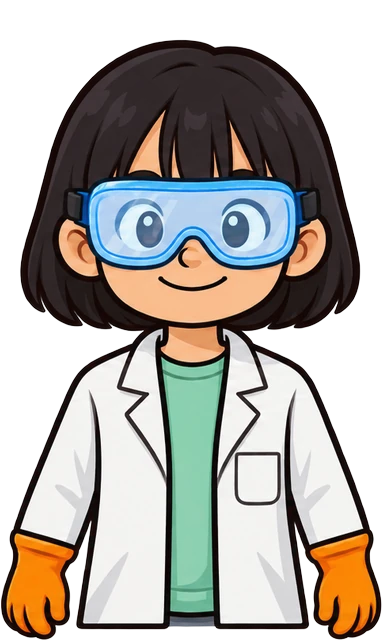
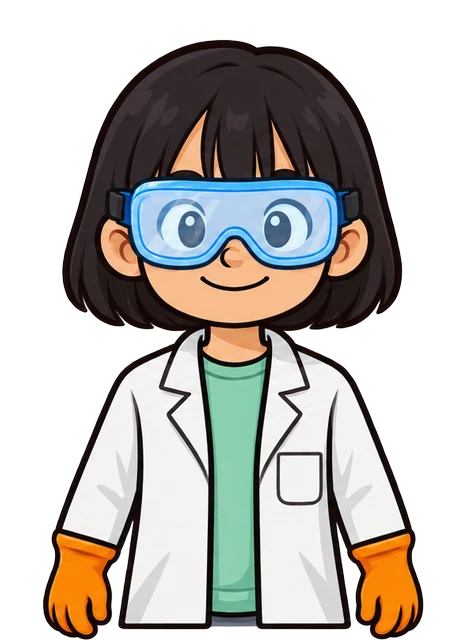
feat: 압력-부피 그래프를 교과서 개형(가로 압력, 세로 부피, 원점 0, 반비례 곡선)으로, 기본 그림 3장 다시 그리기
- 눈금을 모두 읽으면 곡선이 양쪽으로 이어져 나가 반비례 모양이 드러남(game/graph.ts, 테스트 4개)
- 기본 그림을 착용 그림과 같은 방식으로 재생성, 틀을 가로 470으로 넓혀 포니테일·소매 잘림 해결
- 크기는 폭이 아닌 높이 기준(담그기, 결과 카드)

diff --git a/game/scenes/ClinicScene.ts b/game/scenes/ClinicScene.ts
@@ -9,6 +9,7 @@ import {
 } from '@/game/exam';
 import { checkPistonRun, deviceVolume, heldConstant, needleFromVolume, pressureReading, stepTargetVolume, badgeText } from '@/game/rules';
 import { LensView } from '@/game/systems/lens';
+import { curveSamples, plotArea, toGraph, GRAPH_P_MAX } from '@/game/graph';
 import { GoalBanner } from '@/game/systems/goalBanner';
 import { goalFor } from '@/game/goals';
 import { inEmergency, roundBlocked, comboRate } from '@/game/systems/emergencyRound';
@@ -56,6 +57,7 @@ export class ClinicScene extends Phaser.Scene {
   private finishTimer: number | null = null;
   private popAt: Record<number, number> = {};
   private lastPistonVol = 0;
+  private graphDoneAt = 0;
   private lastPistonSound = 0;
   private lens!: LensView;
   private gxLabel!: Phaser.GameObjects.Text;
@@ -87,7 +89,7 @@ export class ClinicScene extends Phaser.Scene {
     this.goal = new GoalBanner(this, inEmergency() ? 764 : 44);
     this.gHand = this.add.graphics().setDepth(45);
     const lab = (t: string) => this.add.text(0, 0, t, { ...TEXT, fontSize: '18px', fontStyle: 'bold', color: '#37474f' }).setOrigin(0.5).setDepth(11).setVisible(false);
-    this.gxLabel = lab('부피'); this.gyLabel = lab('압력').setAngle(-90);
+    this.gxLabel = lab('압력'); this.gyLabel = lab('부피').setAngle(-90);   // 교과서 그림 Ⅵ-3: 가로 압력, 세로 부피
     this.sp = { grip: this.add.image(0, 0, 'sp_grip').setDepth(13) };
     this.GRIP_ASPECT = 366 / 113;
     const key = this.textures.exists(`patient_${patient.id}`) ? `patient_${patient.id}` : `patient_${patient.id}_ph`;
@@ -353,25 +355,33 @@ export class ClinicScene extends Phaser.Scene {
 
   /** 작은 그래프: 눈금을 읽을 때마다 점이 하나씩 찍힌다. 가로 = 부피 눈금, 세로 = 바늘의 상대 높이(수치 없음). */
   private drawGraph(g: Phaser.GameObjects.Graphics, now: number) {
-    const { x, y, w, h } = this.L.graph; const m = this.cfg.measure;
-    const lo = needleFromVolume(m.from, this.cfg.syringe.start), hi = needleFromVolume(m.to, this.cfg.syringe.start);
-    const px = (v: number) => x + 46 + ((v - m.to) / (m.from - m.to)) * (w - 70);
-    const py = (n: number) => y + h - 44 - ((n - lo) / (hi - lo)) * (h - 70);
+    const { x, y, w, h } = this.L.graph; const m = this.cfg.measure; const cfg = this.cfg;
+    const A = plotArea(this.L.graph);
     g.fillStyle(0x000000, 0.2); g.fillRoundedRect(x + 6, y + 8, w, h, 12);
     g.fillStyle(0xfdfcf7, 0.96); g.fillRoundedRect(x, y, w, h, 12); g.lineStyle(3, 0x546e7a, 1); g.strokeRoundedRect(x, y, w, h, 12);
-    g.lineStyle(3, 0x546e7a, 1); g.lineBetween(x + 34, y + 14, x + 34, y + h - 30); g.lineBetween(x + 34, y + h - 30, x + w - 12, y + h - 30);
-    g.fillStyle(0x546e7a, 1); g.fillTriangle(x + 34, y + 8, x + 28, y + 20, x + 40, y + 20); g.fillTriangle(x + w - 6, y + h - 30, x + w - 18, y + h - 36, x + w - 18, y + h - 24);
-    this.gxLabel.setPosition(x + (w + 34) / 2, y + h - 12).setVisible(true); this.gyLabel.setPosition(x + 17, y + (h - 30) / 2).setVisible(true);
-    const pts = this.st.readings.filter(r => r.dwellMs >= m.dwellMs && r.volume >= m.to && r.volume <= m.from).sort((a, b) => b.volume - a.volume)
-      .map(r => ({ v: r.volume, X: px(r.volume), Y: py(needleFromVolume(r.volume, this.cfg.syringe.start)) }));
-    if (pts.length > 1) {
-      g.lineStyle(3, 0xc0506a, 0.5); g.beginPath(); g.moveTo(pts[0].X, pts[0].Y);
-      for (const p of pts.slice(1)) g.lineTo(p.X, p.Y);
-      g.strokePath();
-    }
-    for (const p of pts) {
-      const pop = now - (this.popAt[p.v] ?? -1e9); const k = pop < 350 ? 1 + 0.9 * Math.sin((pop / 350) * Math.PI) : 1;
-      g.fillStyle(0xc0506a, 1); g.fillCircle(p.X, p.Y, 6 * k); g.lineStyle(2, 0x6b1f30, 1); g.strokeCircle(p.X, p.Y, 6 * k);
+    // 축은 원점(0)에서 시작한다: 세로 부피, 가로 압력 (교과서 그림 Ⅵ-3)
+    g.lineStyle(3, 0x546e7a, 1); g.lineBetween(A.ox, y + 14, A.ox, A.oy); g.lineBetween(A.ox, A.oy, x + w - 12, A.oy);
+    g.fillStyle(0x546e7a, 1); g.fillTriangle(A.ox, y + 8, A.ox - 6, y + 20, A.ox + 6, y + 20); g.fillTriangle(x + w - 6, A.oy, x + w - 18, A.oy - 6, x + w - 18, A.oy + 6);
+    this.gxLabel.setPosition(A.ox + A.pw / 2, y + h - 12).setVisible(true); this.gyLabel.setPosition(x + 17, A.oy - A.ph / 2).setVisible(true);
+
+    const line = (vFrom: number, vTo: number, upTo = 1) => {
+      const pts = curveSamples(cfg, vFrom, vTo, 28).map(q => toGraph(this.L.graph, cfg, q.p, q.v));
+      const n = Math.max(1, Math.round((pts.length - 1) * upTo));
+      g.beginPath(); g.moveTo(pts[0].X, pts[0].Y); for (let i = 1; i <= n; i++) g.lineTo(pts[i].X, pts[i].Y); g.strokePath();
+    };
+    const read = this.st.readings.filter(r => r.dwellMs >= m.dwellMs && r.volume >= m.to && r.volume <= m.from).sort((a, b) => b.volume - a.volume);
+    // 눈금을 모두 읽으면 곡선이 양쪽으로 이어져 나가 반비례 모양(축에 가까워지는 곡선)이 드러난다
+    if (read.length === m.from - m.to + 1) {
+      if (!this.graphDoneAt) this.graphDoneAt = now;
+      const f = Math.min(1, (now - this.graphDoneAt) / 900);
+      g.lineStyle(3, 0xc0506a, 0.45);
+      line(m.from, cfg.syringe.max, f); line(m.to, cfg.syringe.start / GRAPH_P_MAX, f);
+    } else this.graphDoneAt = 0;
+    if (read.length > 1) { g.lineStyle(3, 0xc0506a, 0.9); line(read[0].volume, read[read.length - 1].volume); }
+    for (const r of read) {
+      const p = toGraph(this.L.graph, cfg, needleFromVolume(r.volume, cfg.syringe.start), r.volume);
+      const pop = now - (this.popAt[r.volume] ?? -1e9); const k = pop < 350 ? 1 + 0.9 * Math.sin((pop / 350) * Math.PI) : 1;
+      g.fillStyle(0xc0506a, 1); g.fillCircle(p.X, p.Y, 4.5 * k); g.lineStyle(2, 0x6b1f30, 1); g.strokeCircle(p.X, p.Y, 4.5 * k);
     }
   }
 

diff --git a/tests/graph.test.ts b/tests/graph.test.ts
@@ -1,0 +1,34 @@
+import { describe, it, expect } from 'vitest';
+import experiments from '../public/data/experiments.json';
+import layout from '../public/data/layout.json';
+import type { Experiments } from '../game/types';
+import { curveSamples, toGraph, plotArea, GRAPH_P_MAX } from '../game/graph';
+
+const cfg = experiments as unknown as Experiments;
+const rect = (layout as unknown as { clinic: { graph: { x: number; y: number; w: number; h: number } } }).clinic.graph;
+
+describe('압력–부피 그래프 (교과서 Ⅵ-3: 가로 압력, 세로 부피, 원점에서 시작)', () => {
+  it('원점은 축이 만나는 모서리다', () => {
+    const a = plotArea(rect); const o = toGraph(rect, cfg, 0, 0);
+    expect(o.X).toBe(a.ox); expect(o.Y).toBe(a.oy);
+  });
+  it('곡선 위의 모든 점은 압력×부피가 같다 (반비례)', () => {
+    const s = curveSamples(cfg, cfg.syringe.max, 8, 30);
+    for (const q of s) expect(q.p * q.v).toBeCloseTo(cfg.syringe.start, 6);
+  });
+  it('부피가 줄수록 압력이 늘고, 곡선은 아래로 볼록하다 (일차식이 아니다)', () => {
+    const s = curveSamples(cfg, cfg.syringe.max, 8, 30);
+    for (let i = 1; i < s.length; i++) { expect(s[i].p).toBeGreaterThan(s[i - 1].p); expect(s[i].v).toBeLessThan(s[i - 1].v); }
+    // 같은 압력 간격에서 부피가 줄어드는 폭이 점점 작아진다
+    const drops = s.slice(1).map((q, i) => s[i].v - q.v);
+    for (let i = 1; i < drops.length; i++) expect(drops[i]).toBeLessThan(drops[i - 1]);
+  });
+  it('끝까지 늘린 곡선이 상자 안에 들어가고 두 축에 가까워진다', () => {
+    const s = curveSamples(cfg, cfg.syringe.max, cfg.syringe.start / GRAPH_P_MAX, 30).map(q => toGraph(rect, cfg, q.p, q.v));
+    const a = plotArea(rect);
+    for (const q of s) { expect(q.X).toBeGreaterThanOrEqual(a.ox); expect(q.X).toBeLessThanOrEqual(a.ox + a.pw + 0.5); expect(q.Y).toBeLessThanOrEqual(a.oy); expect(q.Y).toBeGreaterThanOrEqual(a.oy - a.ph - 0.5); }
+    const first = s[0], last = s[s.length - 1];
+    expect(first.Y - (a.oy - a.ph)).toBeLessThan(2);          // 왼쪽 끝은 위쪽 끝에 닿고
+    expect(last.X - (a.ox + a.pw)).toBeGreaterThan(-2);       // 오른쪽 끝은 가로 끝에 닿는다
+  });
+});

diff --git a/game/graph.ts b/game/graph.ts
@@ -1,0 +1,27 @@
+import type { Experiments } from './types';
+import { needleFromVolume } from './rules';
+
+/** 가로축(압력) 끝: 시작 압력의 몇 배까지 그리는가. 교과서 그림 Ⅵ-3처럼 곡선이 가로축에 가까워지는 모양이 보이게 한다. */
+export const GRAPH_P_MAX = 2.4;
+
+export interface GraphRect { x: number; y: number; w: number; h: number }
+
+/** 축 안쪽 그리는 영역. 원점(ox, oy)은 두 축이 만나는 모서리다(축을 0에서 시작). */
+export function plotArea(r: GraphRect) {
+  return { ox: r.x + 34, oy: r.y + r.h - 30, pw: r.w - 34 - 22, ph: r.h - 30 - 22 };
+}
+
+/** 가로는 압력(시작 압력=1인 상대 값, 수치는 화면에 쓰지 않는다), 세로는 부피(0~주사기 최대). */
+export function toGraph(r: GraphRect, cfg: Experiments, pressure: number, volume: number) {
+  const a = plotArea(r);
+  return { X: a.ox + (pressure / GRAPH_P_MAX) * a.pw, Y: a.oy - (volume / cfg.syringe.max) * a.ph };
+}
+
+/** 반비례 곡선(압력×부피=일정) 위의 점들. 부피 vFrom에서 vTo까지 압력을 고르게 나눠 뽑는다. */
+export function curveSamples(cfg: Experiments, vFrom: number, vTo: number, n = 24): { p: number; v: number }[] {
+  const p0 = needleFromVolume(vFrom, cfg.syringe.start), p1 = needleFromVolume(vTo, cfg.syringe.start);
+  return Array.from({ length: n + 1 }, (_, i) => {
+    const p = p0 + ((p1 - p0) * i) / n;
+    return { p, v: cfg.syringe.start / p };
+  });
+}

diff --git a/components/overlays/SummaryOverlay.tsx b/components/overlays/SummaryOverlay.tsx
@@ -63,7 +63,7 @@ export function SummaryOverlay() {
           <div className="flex items-center gap-4 border-b-2 border-slate-300 pb-2 mb-4">
             <div className="w-[68px] h-[68px] shrink-0 rounded-full overflow-hidden bg-teal-100 border-[3px] border-amber-300">
               {/* eslint-disable-next-line @next/next/no-img-element */}
-              <img src={`/assets/hero/${heroId}.webp`} alt="" draggable={false} className="block w-full" />
+              <img src={`/assets/hero/${heroId}.webp`} alt="" draggable={false} className="block h-full w-full object-cover object-top" />
             </div>
             <div>
               <div className="text-[34px] font-black leading-tight">오늘의 진료 결과</div>

diff --git a/game/scenes/DipScene.ts b/game/scenes/DipScene.ts
@@ -274,7 +274,7 @@ export class DipScene extends Phaser.Scene {
     const { x, y, r } = this.L.person;
     g.fillStyle(0x000000, 0.2); g.fillEllipse(x, y + r + 70, r * 2, 26);
     if (this.drag?.kind === 'gear') { g.lineStyle(6, 0xffc933, 0.5 + 0.4 * Math.sin(now / 150)); g.strokeCircle(x, y, r + 30); }
-    this.sp.kid.setTexture(heroKey(useGame.getState().heroId, this.worn)).setPosition(x, y + 5).setDisplaySize(151, 250);   // 착용 그림으로 바뀐다
+    this.sp.kid.setTexture(heroKey(useGame.getState().heroId, this.worn)).setPosition(x, y + 5).setScale(250 / 640);   // 착용 그림으로 바뀐다
   }
 
   private drawGearIcon(g: Phaser.GameObjects.Graphics, gear: Gear, x: number, y: number, s: number) {

diff --git a/components/DevSkip.tsx b/components/DevSkip.tsx
@@ -17,7 +17,7 @@ export function DevSkip() {
   if (process.env.NODE_ENV === 'production') return null;
   const btn = 'px-3 py-1 rounded bg-black/60 border border-white/40';
   return (
-    <div className="absolute left-16 bottom-10 z-50 pointer-events-auto flex items-center gap-2 text-[14px] text-white/80">
+    <div className="absolute left-[360px] bottom-10 z-50 pointer-events-auto flex items-center gap-2 text-[14px] text-white/80">
       <span className="px-2 py-1 rounded bg-black/60">dev: {phase}</span>
       <button type="button" className={btn} onClick={e => { next(); e.currentTarget.blur(); }}>next()</button>
       {phase === 'exam' && currentId && (

diff --git a/scripts/slice_gear.py b/scripts/slice_gear.py
@@ -2,14 +2,18 @@
 """
 보호구 착용 시트(왼쪽부터 장갑 / 보안경 / 둘 다, 투명 배경) → 기본 그림(hero/<id>.webp)과 같은 틀의 WebP 3장.
 
-    python3 scripts/slice_gear.py <시트.png> <id>     # 예) docs/assets-source/hero_boy_gear.png boy
+    python3 scripts/slice_gear.py <시트.png> <id>           # 예) docs/assets-source/hero_boy_gear.png boy
+    python3 scripts/slice_gear.py <그림.png> <id> --base   # 보호구 없는 기본 그림 한 장 (hero/<id>.webp를 덮어쓴다)
 
 보호구가 달라도 변하지 않는 가슴 높이의 가운 폭과 중심, 맨 아래 선을 기본 그림에 맞춘다.
 그래서 착용 그림으로 바꿔도 캐릭터가 튀지 않는다. 결과: public/assets/hero/<id>_{gloves,goggles,both}.webp
+기준 그림은 hero/<id>_both.webp(있으면) 또는 hero/<id>.webp다. 틀은 가로 CANVAS_W × 세로 기준 그림 높이(640)이고, 가슴 중심을 틀의 가운데에 둔다.
+포니테일·소매가 틀 끝에서 잘리지 않도록 가로를 넓게 잡았다. 화면 쪽은 높이 기준으로 크기를 정한다.
 """
 import sys
 from PIL import Image
 
+CANVAS_W = 470   # 틀 가로 (세로는 기준 그림 높이 640)
 CHEST = 243   # 기본 그림(640px) 맨 아래에서 가슴 높이까지의 거리 (가운 폭을 재는 줄)
 NAMES = ['gloves', 'goggles', 'both']
 
@@ -20,15 +24,17 @@ def row_extent(alpha, y, thr=128):
     return row.getbbox()  # (x0, 0, x1, 1) 또는 None
 
 
-def main(sheet, hero):
-    base = Image.open(f'public/assets/hero/{hero}.webp').convert('RGBA')
+def main(sheet, hero, as_base=False):
+    import os
+    ref = f'public/assets/hero/{hero}_both.webp'
+    base = Image.open(ref if os.path.exists(ref) else f'public/assets/hero/{hero}.webp').convert('RGBA')
     bw, bh = base.size
     be = row_extent(base.getchannel('A'), bh - CHEST)
-    base_w, base_cx = be[2] - be[0], (be[0] + be[2]) / 2
+    base_w = be[2] - be[0]
     img = Image.open(sheet).convert('RGBA')
     third = img.width / 3
-    for i, name in enumerate(NAMES):
-        cell = img.crop((round(i * third), 0, round((i + 1) * third), img.height))
+    for i, name in enumerate([''] if as_base else NAMES):
+        cell = img if as_base else img.crop((round(i * third), 0, round((i + 1) * third), img.height))
         box = cell.getchannel('A').point(lambda v: 255 if v > 24 else 0).getbbox()
         cell = cell.crop(box)
         a = cell.getchannel('A')
@@ -45,12 +51,13 @@ def main(sheet, hero):
         err, s, e = best
         scaled = cell.resize((round(cell.width / s), round(cell.height / s)), Image.LANCZOS)
         cx = (e[0] + e[2]) / 2 / s
-        out = Image.new('RGBA', (bw, bh), (0, 0, 0, 0))
-        out.paste(scaled, (round(base_cx - cx), bh - scaled.height), scaled)
+        out = Image.new('RGBA', (CANVAS_W, bh), (0, 0, 0, 0))
+        out.paste(scaled, (round(CANVAS_W / 2 - cx), bh - scaled.height), scaled)
         top_clipped = scaled.height > bh
-        out.save(f'public/assets/hero/{hero}_{name}.webp', 'WEBP', quality=90, method=6)
-        print(f'{hero}_{name}: 배율 {s:.3f}, 폭 오차 {err:.1f}px, 키 {scaled.height}/{bh}{" (위가 잘림)" if top_clipped else ""}')
+        edge = [sum(1 for y in range(bh) if out.getpixel((x, y))[3] > 128) for x in (0, CANVAS_W - 1)]
+        out.save(f'public/assets/hero/{hero}{"_" + name if name else ""}.webp', 'WEBP', quality=90, method=6)
+        print(f'{hero}{"_" + name if name else ""}: 배율 {s:.3f}, 폭 오차 {err:.1f}px, 키 {scaled.height}/{bh}{" (위가 잘림)" if top_clipped else ""}, 좌우 끝 불투명 {edge}')
 
 
 if __name__ == '__main__':
-    main(sys.argv[1], sys.argv[2])
+    main(sys.argv[1], sys.argv[2], '--base' in sys.argv[3:])

diff --git a/PROGRESS.md b/PROGRESS.md
@@ -154,3 +154,9 @@
 - **조절기 잠금 안내**: 축구공 등에서 피스톤을 움직이면 온도 다이얼이 잠기는 것은 의도(두 조절기 중 하나만 바꿔야 함)였지만 안내가 없었다. 잠긴 조절기를 만지면 한 줄 안내가 뜬다(`dialog-config.hints.lockedDial`/`lockedPiston`/`dialClosed`, 되돌리기 단추를 누르라는 말 포함).
 - **스테이지 네비게이터**(전역 지침 7번): 화면 아래 한 줄에서 시작 화면, 인트로, 구슬 흔들기, 대기실, 환자별 사연·진료·진단서, 응급실 환자별, 피날레, 결과로 바로 이동한다(`components/StageNav.tsx`, 목록은 `game/stages.ts`가 환자 데이터에서 만든다). 개발 모드이거나 `?preview=1`일 때만 보인다. 이름이 비어 있으면 미리보기용 이름 "테스트"를 넣는다(저장 상태에 남는다). 같은 검사 장치 씬에서 환자만 바꿀 때를 위해 대기실을 거쳐 이동한다. 개발용 `DevSkip`은 위로 올렸다.
 - 확인: 테스트 214개, typecheck, lint 통과. 브라우저에서 착용 그림 3명(장갑/보안경/둘 다), 빠른 드래그 시 19 mL에서 멈춤과 다음 눈금, 축구공 안내, 네비게이터 이동 12곳과 오류 없음 확인.
+
+## 2026-10-02 압력–부피 그래프를 교과서 개형으로, 기본 그림 다시 그리기 (사용자 피드백)
+- **그래프**(`game/graph.ts`, `ClinicScene.drawGraph`): 이전 그래프는 점 9개가 상자를 꽉 채우도록 축을 늘려 그려서 12~20 mL 구간이 거의 일차식 직선으로 보였고, 가로 부피·세로 압력으로 교과서(가로 압력, 세로 부피)와도 반대였다. 이제 **축이 원점 0에서 시작**하고 가로 압력·세로 부피다. 측정한 구간은 점과 진한 곡선으로, **눈금을 모두 읽으면 곡선이 양쪽으로 이어져 나가** 축에 가까워지는 반비례 모양이 드러난다(압력×부피 일정). 수치는 쓰지 않는다. 그래프 상자는 `layout.json` clinic.graph를 키웠다(40,548,300×232). 테스트 `tests/graph.test.ts` 4개(원점, 압력×부피 일정, 아래로 볼록, 상자 안·축 접근).
+- **기본 그림**: 남학생·여학생 2명의 기본 그림을 착용 그림과 같은 방식으로 다시 그려 12장이 한 벌이다. 틀을 가로 470으로 넓혀 여학생 2의 포니테일·소매 잘림을 없앴고, 화면 쪽은 높이 기준으로 바꿨다. 자세한 방법은 `docs/art-todo.md`.
+- 개발용 `DevSkip` 버튼은 그래프를 가리지 않게 오른쪽(left 360px)으로 옮겼다.
+- 확인: 테스트 218개, typecheck, lint 통과. 브라우저에서 눈금을 하나씩 읽으며 그래프 변화(곡선이 이어짐), 시작 화면 카드 3장, 결과 카드의 얼굴 확인.

diff --git a/docs/art-todo.md b/docs/art-todo.md
@@ -92,4 +92,5 @@
 - 만들기(한 명씩, 순서대로): `CODEX_MODEL=gpt-5.5 scripts/gen_image.sh docs/assets-source/hero_<id>_gear.png "<프롬프트>" <기본 그림 PNG> <props/goggles PNG> <props/glove PNG>`
 - 프롬프트: "Three versions of the SAME character side by side in ONE image (left, middle, right). Fully transparent background (alpha channel PNG), no background, no ground shadow, no text. The FIRST attached image is the character: keep exactly the same face, hair, outfit, proportions, outline style, size and body position in all three versions; only the safety gear differs. Waist-up, front-facing, arms hanging straight down at the sides, both hands visible at the bottom, same framing as the first image. LEFT version: wearing bright orange rubber lab gloves on both hands (the hands are gloved), no goggles. MIDDLE version: wearing clear light-blue safety goggles with a dark strap worn over the eyes (covering the eyes, not on the forehead), bare hands. RIGHT version: wearing both the goggles over the eyes and the orange gloves. The SECOND attached image shows the goggles and the THIRD shows the glove: match their design and colors. Leave an empty transparent gap between the three versions at least half a character wide. Nothing else in the image."
 - 자르기: `python3 scripts/slice_gear.py docs/assets-source/hero_<id>_gear.png <id>`. 보호구와 상관없는 가슴 높이의 가운 폭과 중심, 맨 아래 선을 기본 그림(387×640)에 맞춘다(폭 오차 0.3px 이하). 결과가 기본 그림과 틀이 같아서 담그기에서 바꿔 끼워도 위치가 튀지 않는다.
-- 알려진 차이: 착용 그림은 새로 그려서 기본 그림과 얼굴 표정·머리 결이 조금 다르다. 거슬리면 기본 그림 3장도 같은 방식으로 다시 그려 한 벌로 맞춘다.
+- 기본 그림 3장도 같은 방식으로 다시 그렸다(착용 시트를 참고 그림으로 주고 "아무것도 안 낀 네 번째 모습"을 요청, 원본 `docs/assets-source/hero_<id>_base.png`, 자르기 `python3 scripts/slice_gear.py <원본> <id> --base`). 처음 그림은 한 번 요청에서 10분을 넘겨 중단됐고, 참고 시트를 가로 1400px로 줄여 한 명씩 요청하니 됐다.
+- 틀: 가로 470 × 세로 640(가슴 중심이 가운데). 처음 387px 폭은 여학생 2의 포니테일과 소매가 가장자리에서 잘려서 넓혔다. 화면 쪽은 폭이 아니라 높이로 크기를 정한다(담그기 `setScale(250/640)`, 시작 화면 카드 높이 `hero.cardSize`, 결과 카드 `object-cover object-top`).

diff --git a/docs/superpowers/specs/2026-09-30-g1-gas-textbook.md b/docs/superpowers/specs/2026-09-30-g1-gas-textbook.md
@@ -42,6 +42,7 @@
 
 - 교과 연계: 압력에 따른·온도에 따른 기체의 부피 변화는 초등학교 '여러 가지 기체' 단원과 연계 (203, 213쪽 보조단).
 - 부록 참조: 압력 센서 사용법 265쪽, 그래프 그리는 방법 137쪽.
+- 202쪽 그림 Ⅵ-3 구조 확인 (사용자가 그림을 보여 줌, 2026-10-02): **가로 압력(기압), 세로 부피(mL), 두 축이 원점 0에서 시작**, 주황색 반비례 곡선이 세로축 쪽에서 가파르게 내려와 가로축에 가까워지며, 곡선 위에 점 3개와 점선 눈금이 있다. 게임 그래프는 이 구조(축 방향, 원점, 곡선 모양)만 따르고 점 값은 화면에 쓰지 않는다.
 
 ---
 
